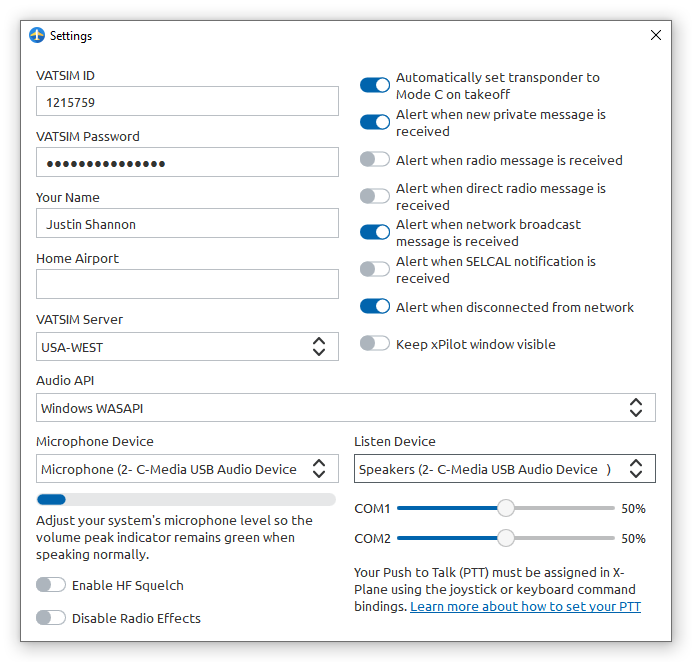
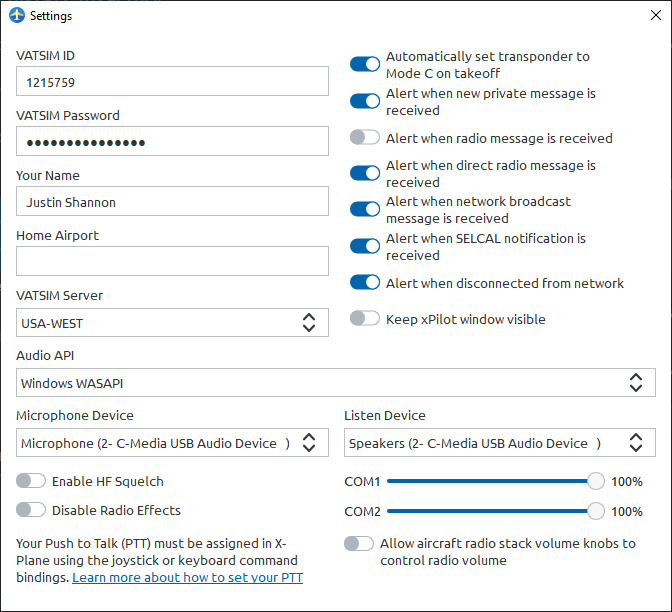
Update to match latest client changes

Changed region(s): [[0.0, 0.0, 1.0, 1.0], [0.5, 0.0621, 0.9375, 0.5278], [0.5312, 0.5278, 0.5625, 0.5588]]

diff --git a/docs/client.md b/docs/client.md
@@ -12,7 +12,7 @@ The xPilot client is the main user interface that is used to connect to the VATS
 
 To configure the xPilot client, click the **Settings** button. You will see the screen shown below.
 
-![Settings](media/Settings.png ':size=692')
+![Settings](media/Settings.png ':size=672')
 
 Before you can connect to the network, you must configure your VATSIM credentials. If you wish to utilize voice communications, you must also configure your microphone and listen device.
 
@@ -32,7 +32,7 @@ Your Push to Talk button must be set within X-Plane. See the [Command Bindings](
 ### Audio Devices
 The Audio API will show the audio drivers available to xPilot. If you are on Windows, this dropdown will show multiple options: MME, Windows Direct Sound, Windows WASAPI and Windows WDM-KS. MME or Windows WASAPI are the most common, but another option might work better with your audio device.
 
-The **Microphone Device** is what will be used to communicate with VATSIM controllers. If the microphone device is working, you should see the calibration meter below the selection box move and change colors when you talk. You may need to adjust the input volume of your microphone device in your system settings; the ideal range is for the meter to be green when you speak in a normal volume.
+The **Microphone Device** is what will be used to communicate with VATSIM controllers. xPilot employs automatic gain control to automatically increase the gain of your microphone input volume. In some circumstances, you may need to manually increase the input volume of your microphone device in your system settings if it is too low.
 
 The **Listen Device** is the audio device that will be used as the output device for listening to voice transmissions from the controllers and other pilots.
 
@@ -40,10 +40,12 @@ If the audio device is not yet plugged in, you will need to close and restart th
 
 You can also adjust the COM1 and COM2 volumes here. Alternatively, you can adjust the COM1 and COM2 volumes via the volume knobs in the aircraft radio panel. **Note:** The volume sliders in the xPilot settings do not reflect adjustments made via the aircraft radio stack volume knobs, and vice versa. So, if you adjust the radio volumes inside the aircraft, the volume sliders will not reflect this change; when you restart xPilot, the volumes will revert to the previous volume levels as set by the volume sliders.
 
+If the **Allow aircraft radio stack volume knobs to control radio volume** is checked, the radio volume can be controlled using the volume knobs in your aircraft. This will work as long as the aircraft your flying uses the standard volume dataref; some aircraft developers use custom datarefs.
+
 ### Radio Effects
 If the **Enable HF Squelch** is enabled, you will not hear the static white noise when tuned to an HF frequency. If you want a realistic HF frequency experience, leave this option off.
 
-If you check the box labeled **Disable Radio Effects**, the incoming voice audio will not be filtered to sound like a VHF radio. Generally, you want to leave this option unchecked so that the audio is realistic.
+If you check the box labeled **Disable Radio Effects**, the incoming voice audio will not be filtered to sound like a VHF radio &mdash; it'll sound more like a VOIP call. Generally, you want to leave this option unchecked so that the audio sounds realistic.
 
 ## Connecting to VATSIM
 To connect to VATSIM, click the **CONNECT** button. You will see the Connect window. The callsign and aircraft type code field is required. The SELCAL code is optional.

diff --git a/docs/xplane.md b/docs/xplane.md
@@ -34,7 +34,7 @@ xPilot has no complex or special model matching rule sets that need to be instal
 
 In the xPilot Plugin settings (accessed via `Plugins > xPilot > Settings`), there is a section to define the path(s) to where your CSL model sets are installed. You can define up to seven different paths.
 
-![CSL Configuration](media/XplaneCSLConfiguration.png ':size=634')
+![CSL Configuration](media/XplaneCSLConfiguration.png ':size=632')
 
 To define a new path, click the `Browse` button and browse to the root folder of your CS models, or manually type in the full path. If there are multiple subfolders, xPilot will search the folders for additional models.
 
@@ -121,6 +121,6 @@ All notifications (text radio messages, private messages, network broadcast aler
 
 ## Nearby ATC
 
-The Nearby ATC window shows controllers who are within range; the list includes the callsign, name and frequency of the station. There are two action buttons available. The first button will request the station information (controller ATIS) and the second button will tune your COM1 radio frequency to the controller's frequency.
+The Nearby ATC window shows controllers who are within range, organized by facility type; the list includes the callsign, frequency and person's name of the station. There are two action buttons available. The first button will request the station information (controller ATIS) and the second button will tune your COM1 radio frequency to the controller's frequency.
 
-![Nearby ATC](media/NearbyATC.png ':size=576')
+![Nearby ATC](media/NearbyATC.png ':size=579')
